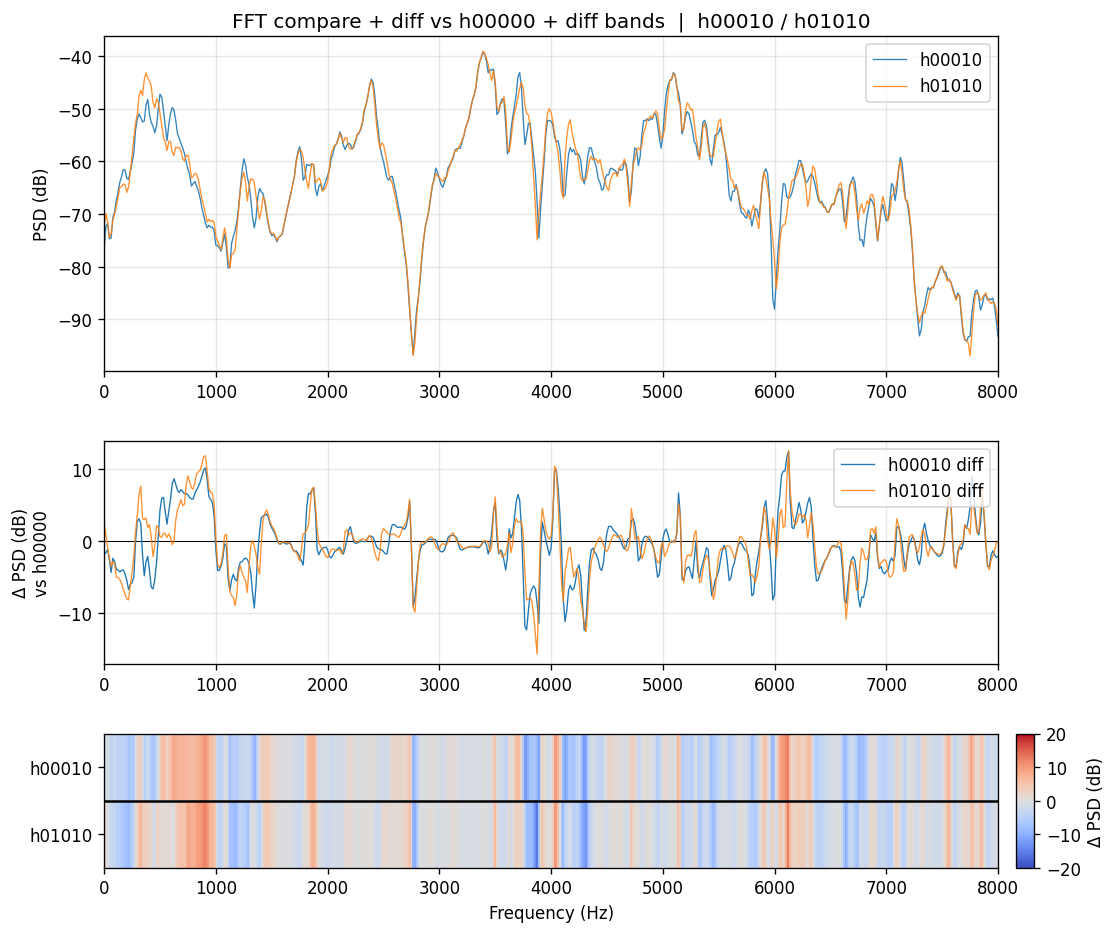
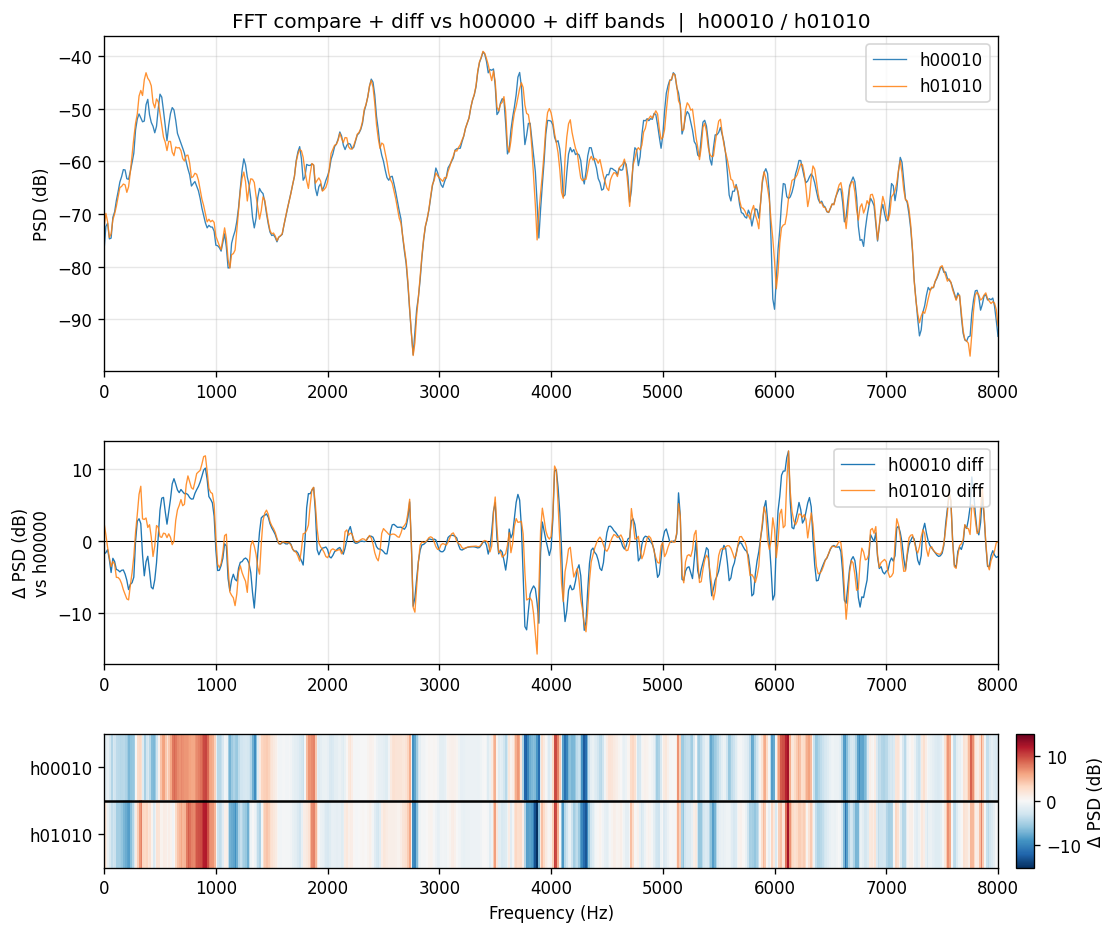
docs(figures): diff 図 2 種追加 + 発散色を RdBu_r (0=白) / ±15 dB に統一
- 新図: fftdiff_band_h00000_vs_h00001 (窓 a 開) / h00010_vs_h00011 (AB 開下で窓 a 開)
- Δ PSD の発散カラーマップを coolwarm → RdBu_r に変更 (0 中心がグレーでなく
  白背景になる。クラス別ヒートマップ fft_diff_heatmap_by_class と同一)
- 色域を ±20 → ±15 dB に統一 (gen_fftdiff_band / pair 両方)
- 既存 5 図 (MOCK / h00000_vs_h01000 / h00010_h01010 / stft_diff) を新基準で再生成
- figures_spec.md の色仕様記述も更新

Changed region(s): [[0.3653, 0.7762, 0.974, 0.9315], [0.0913, 0.7762, 0.3348, 0.9315], [0.9132, 0.7762, 0.974, 0.8383]]

diff --git a/pc/gen_stft_diff.py b/pc/gen_stft_diff.py
@@ -7,7 +7,7 @@ noise_diff 特徴量の妥当性の可視化。
 縦 3 段 (x=時間, y=周波数 log で共有):
   2a: s00000 の STFT
   2b: s00001 の STFT
-  2c: STFT 差分 (s00001 − s00000) [dB]、0 中心の発散カラーマップ (coolwarm)
+  2c: STFT 差分 (s00001 − s00000) [dB]、0 中心の発散カラーマップ (RdBu_r, 0=白)
 
 2a/2b はカラースケールを共通化して比較可能にする。2c の色域は
 |diff| の 99 パーセンタイルから対称に決める (独立録音同士の per-bin 差分は
@@ -36,7 +36,7 @@ from gen_fftdiff_band import load_wav  # noqa: E402
 
 FMIN_HZ = 50.0
 FMAX_HZ = 8000.0
-DIVERGE_CMAP = "coolwarm"
+DIVERGE_CMAP = "RdBu_r"  # 0 = 白背景 (coolwarm は 0 がグレーになるため不採用)
 
 
 def stft_db(samples_f: np.ndarray, rate: int):

diff --git a/pc/gen_fftdiff_band.py b/pc/gen_fftdiff_band.py
@@ -32,8 +32,8 @@ from pathlib import Path
 import numpy as np
 
 FMAX_HZ = 8000.0   # 表示上限 (16 kHz / 2)
-DIVERGE_CMAP = "coolwarm"
-DIVERGE_CLIM = 20.0  # ±dB (gen_fftdiff_band_pair.py と同一基準。小変化の視認性優先)
+DIVERGE_CMAP = "RdBu_r"  # 0 = 白背景 (coolwarm は 0 がグレーになるため不採用)
+DIVERGE_CLIM = 15.0  # ±dB (gen_fftdiff_band_pair.py と同一基準。小変化の視認性優先)
 
 
 def load_wav(path: Path):

diff --git a/docs/figures_spec.md b/docs/figures_spec.md
@@ -43,7 +43,7 @@ FFT は `_save_fft_plot` 準拠（semilogx, 平均スペクトル, dB）。
 |---|---|
 | 2a | h00000 の STFT |
 | 2b | h01000 の STFT |
-| 2c | STFT 差分 `(h01000 − h00000)`（dB 差分、発散カラーマップ推奨: coolwarm / bwr, 0 中心） |
+| 2c | STFT 差分 `(h01000 − h00000)`（dB 差分、発散カラーマップ RdBu_r, 0 中心 = 白背景） |
 
 - 全て測定マシンの代表 wav（`frame_000000.wav`）が必要。FFT 差分版も併せて作ると図1b と対比しやすい。
 - 生成スクリプト: `pc/gen_stft_diff.py`（2a/2b は共通カラースケール、2c は coolwarm 0 中心・
@@ -61,7 +61,7 @@ FFT は `_save_fft_plot` 準拠（semilogx, 平均スペクトル, dB）。
 |---|---|
 | 段1 | h00000 / h01000 の平均 FFT（Welch PSD, dB）を重ね描き |
 | 段2 | 差分線 `(h01000 − h00000)` dB、0 基準・正負で赤/青塗り |
-| 段3 | 段2 の差分を**帯カラーチャート**で表示（発散カラーマップ coolwarm, ±6 dB, 右にカラーバー `Δ PSD (dB)`）。参考図と同じ色域。 |
+| 段3 | 段2 の差分を**帯カラーチャート**で表示（発散カラーマップ RdBu_r 0=白, ±15 dB, 右にカラーバー `Δ PSD (dB)`）。全図共通基準。 |
 
 - 生成スクリプト: `pc/gen_fftdiff_band.py`（`--wav0/--wav1` で実データ、`--mock` でレイアウト確認）
 - **レイアウト確認用モック（合成データ・実測ではない）**: `docs/img/fftdiff_band_MOCK.png` を生成済み。
